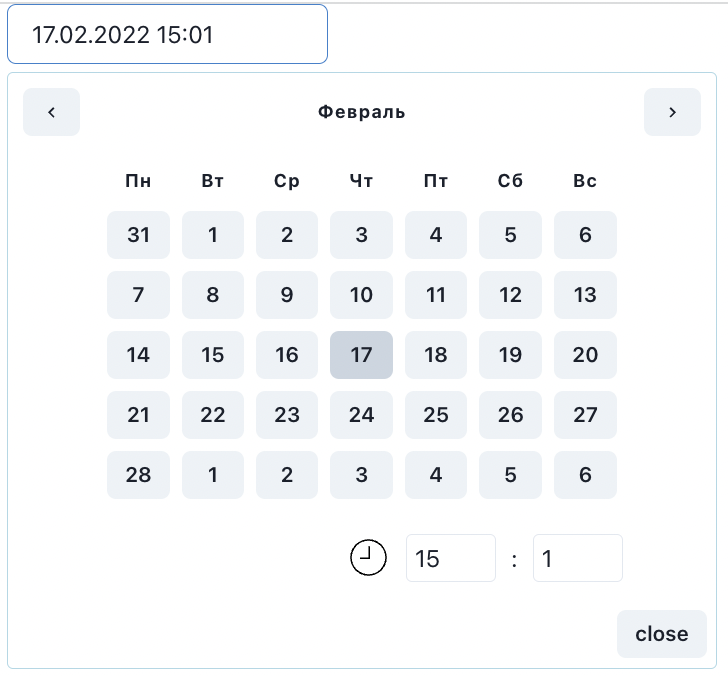
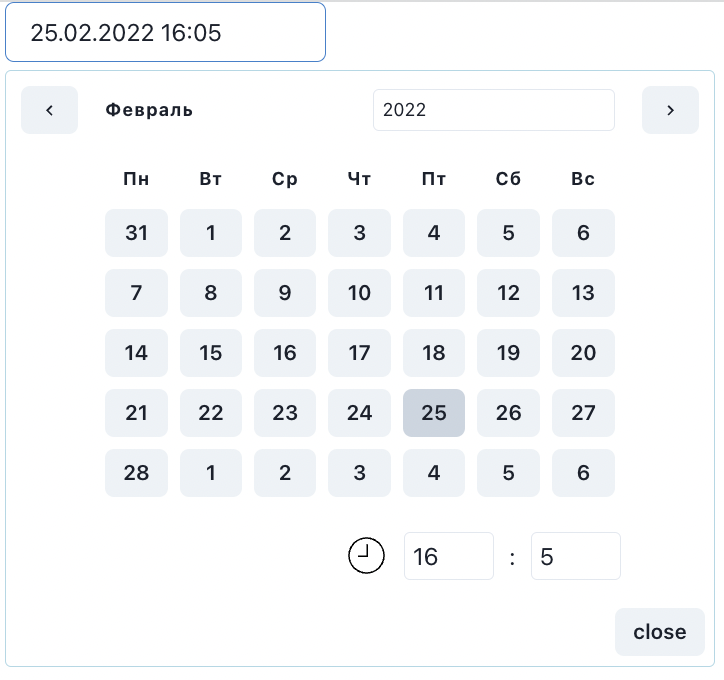
update/assests

diff --git a/dist/DateTimePicker.js b/dist/DateTimePicker.js
@@ -108,7 +108,8 @@ var DateTimePicker = react_1["default"].memo(function (_a) {
         type: "number",
         defaultValue: currentDate.year,
         value: currentDate.year,
-        onChange: handleChangeYear
+        onChange: handleChangeYear,
+        style: { width: "100%" }
     })), react_1["default"].createElement(assignComponents.Th, { colSpan: 2, style: {} }, react_1["default"].createElement(assignComponents.NextMonthButton, {
         onClick: function (e) {
             e.stopPropagation();
@@ -117,7 +118,7 @@ var DateTimePicker = react_1["default"].memo(function (_a) {
         style: {
             cursor: "pointer"
         }
-    }, ">"))), react_1["default"].createElement(assignComponents.Tr, null, react_1["default"].createElement(assignComponents.Td), react_1["default"].createElement(assignComponents.Td, { colSpan: 7 }, react_1["default"].createElement(assignComponents.Table, null, react_1["default"].createElement(assignComponents.TableBody, null, react_1["default"].createElement(assignComponents.Tr, null, columns.map(function (column) {
+    }, ">"))), react_1["default"].createElement(assignComponents.Tr, null, react_1["default"].createElement(assignComponents.Td), react_1["default"].createElement(assignComponents.Td, { colSpan: 7 }, react_1["default"].createElement(assignComponents.Table, { style: { width: "100%" } }, react_1["default"].createElement(assignComponents.TableBody, null, react_1["default"].createElement(assignComponents.Tr, null, columns.map(function (column) {
         return react_1["default"].createElement(assignComponents.Th, { key: column.weekday }, react_1["default"].createElement(assignComponents.Week, null, currentDate.set({ weekday: column.weekday })
             .weekdayShort));
     })), rows.map(function (row, rowIndex) {
